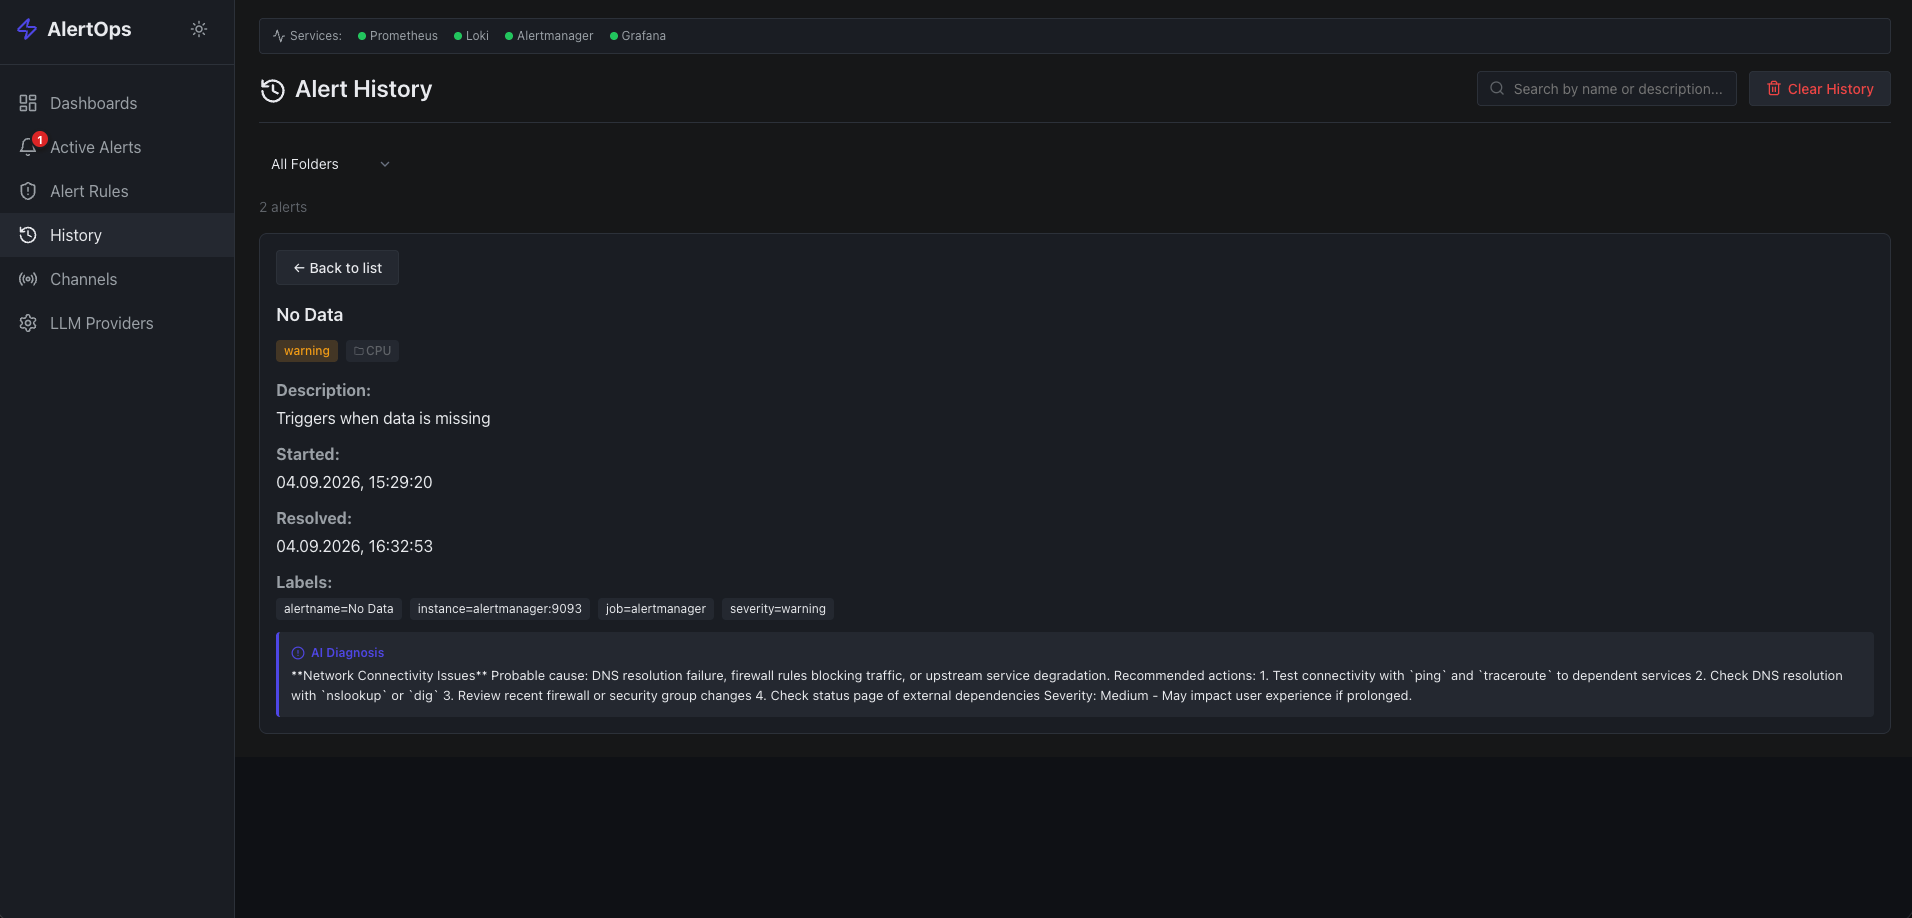
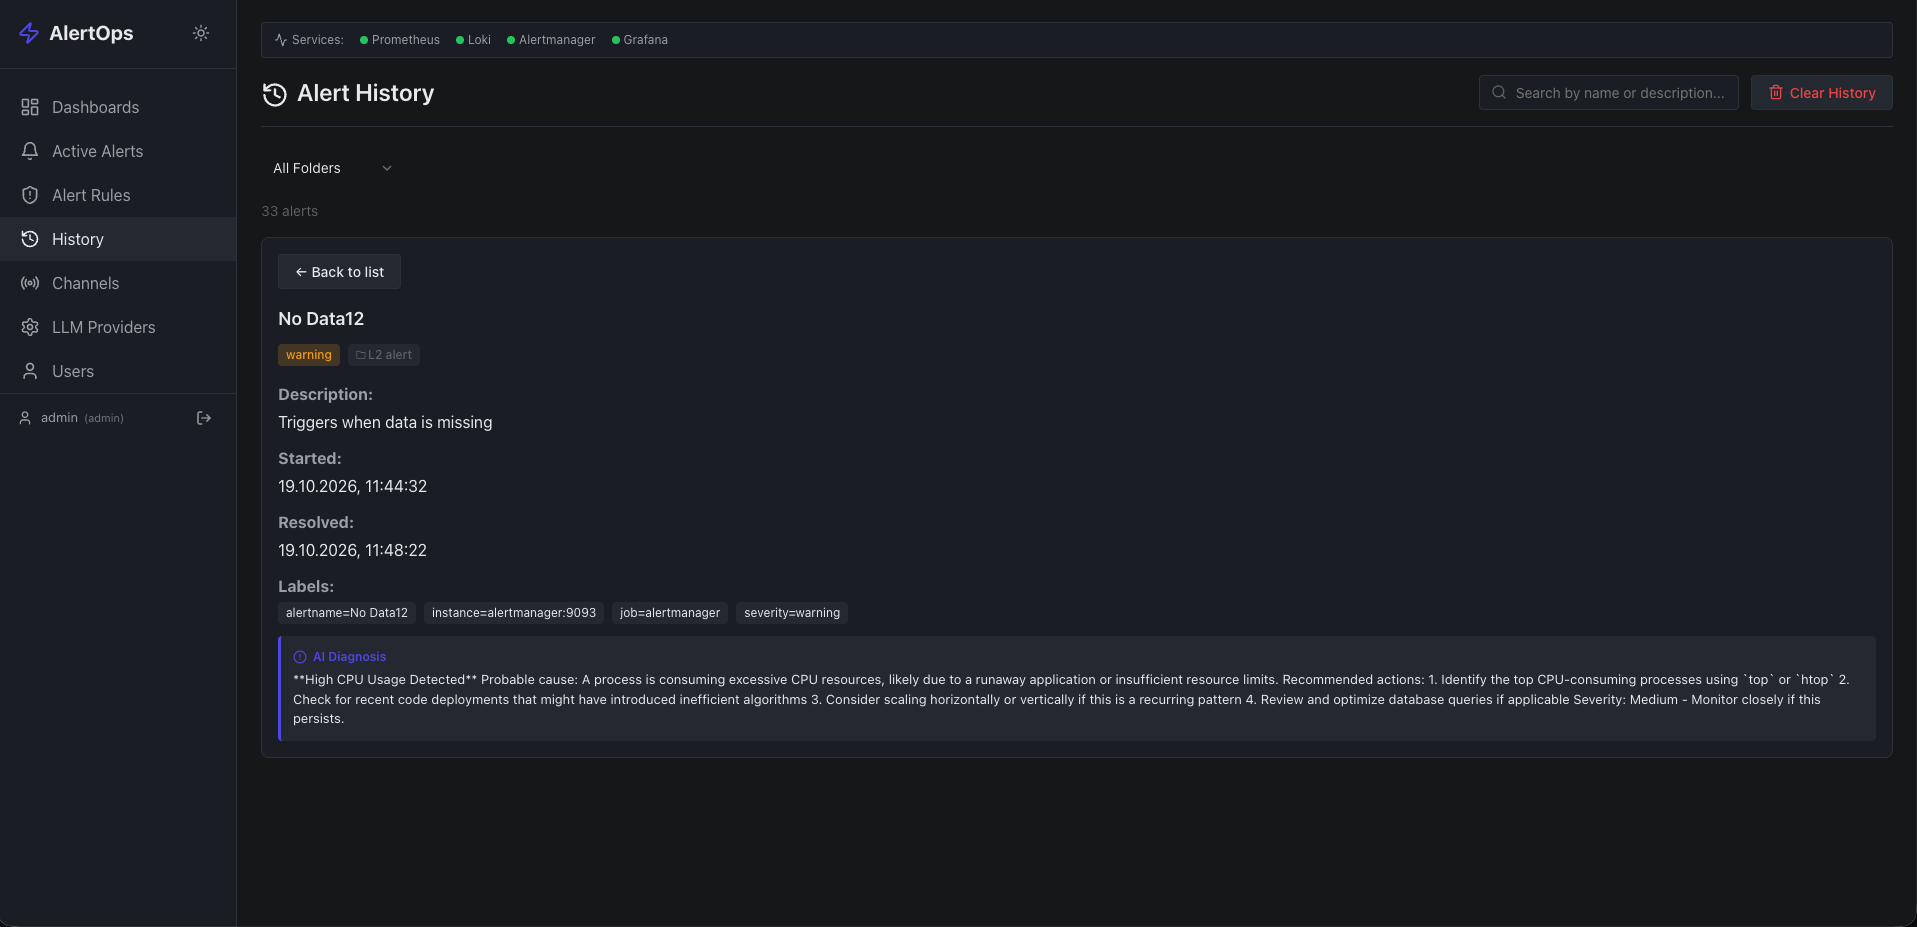
update screenshots and readme

diff --git a/README.md b/README.md
@@ -98,6 +98,14 @@ AlertOps supports JWT-based authentication with two roles. The default admin cre
 
 ![Authentication](assets/screenshots/authentication.png)
 
+---
+
+### Users
+Admin-only page to manage users. Create, edit, delete users, change roles, assign folder access, reset passwords, and search by name. All edits are done via a unified modal.
+
+
+![Users](assets/screenshots/users.png)
+
 ## Architecture
 
 ```
